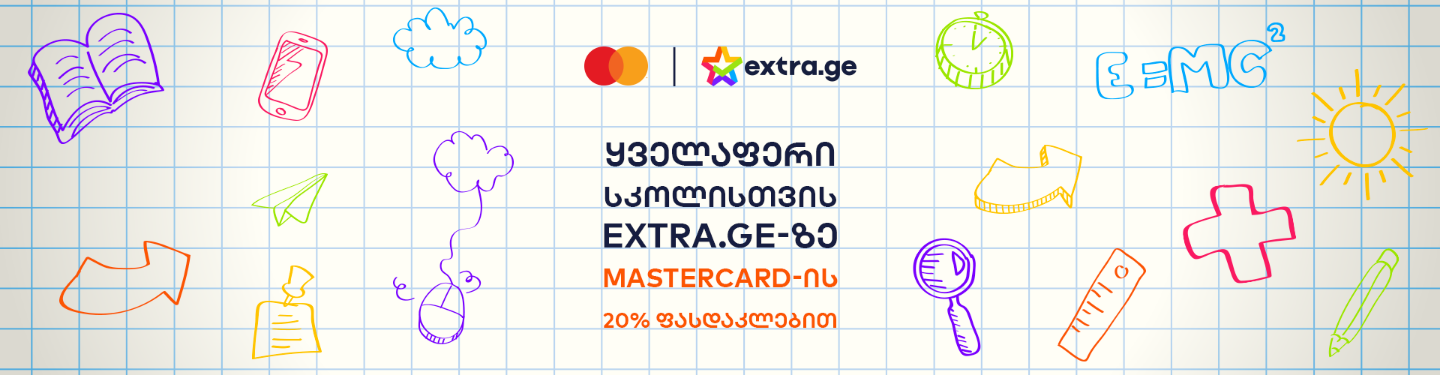
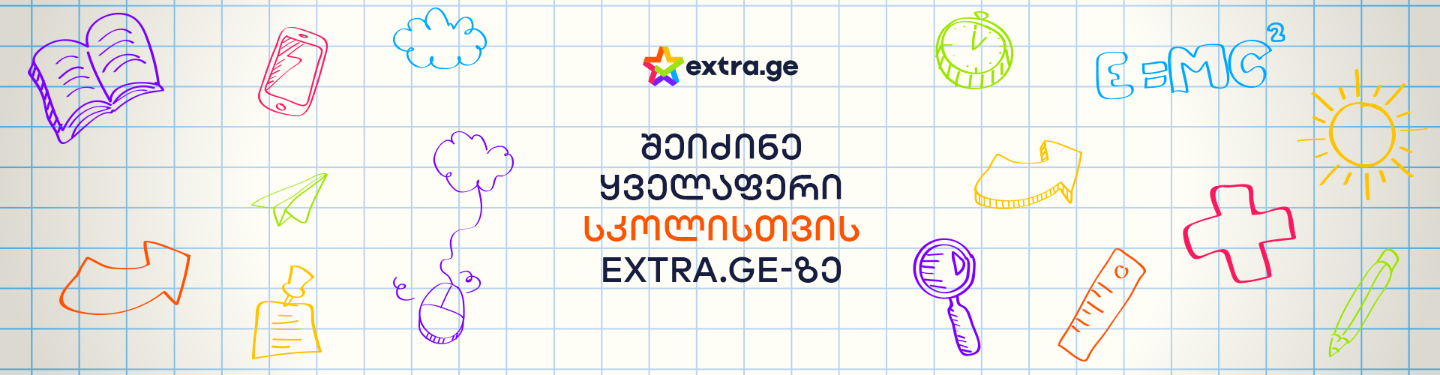
tmb

diff --git a/backtoschool/index.html b/backtoschool/index.html
@@ -7,7 +7,7 @@
   <meta property="og:url" content="https://promo.extra.ge/backtoschool/" />
   <meta property="og:type" content="article" />
   <meta property="og:title" content="🌈 რაც სკოლისთვის გაგიხარდება"  />
-  <meta property="og:description" content="შეიძინე ყველაფერი სკოლისთვის Mastercard-ის -20% ფასდაკლებით! მიიღე შეკვეთა 2 დღეში უფასოდ!" />
+  <meta property="og:description" content="მიიღე შენაძენი თბილისის მასშტაბით 2 დღეში!" />
   <meta property="og:image" content="https://promo.extra.ge/backtoschool/image/tmb.png" />
   <title>🌈 რაც სკოლისთვის გაგიხარდება</title>
   <link rel="icon" href="image/extra_tab_logo-01.svg" type="image/gif" >
@@ -116,7 +116,7 @@
 
 <div class="header-alert">
   <img src="image/delivery-truck-with-circular-clock (1).svg" alt="">
-  <p class="header-alert__p">მიიღე შენაძენი 2 დღეში. ისარგებლე უფასო მიწოდებით MASTERCARD-ით გადახდისას!</p>
+  <p class="header-alert__p">მიიღე შენაძენი თბილისის მასშტაბით 2 დღეში!</p>
 </div>
 
 <!-- <div class="container banner-container-head">
@@ -231,20 +231,22 @@
 
     <div class="col-12 col-md-4">
       <div class="how-it-works">
-        <svg xmlns="http://www.w3.org/2000/svg" width="67.797" height="60" viewBox="0 0 67.797 60"><g transform="translate(-318.307 -398.207)"><path d="M329.94,417.658h14.692l32.143-13.173-1.558-3.8a3.988,3.988,0,0,0-5.2-2.178l-49.232,20.177a3.988,3.988,0,0,0-2.178,5.2l1.558,3.8,4.668-1.913v-3.006A5.114,5.114,0,0,1,329.94,417.658Z" transform="translate(0 0)" /><path d="M361.04,734.683v-6.65l-2.333.956Z" transform="translate(-36.208 -296.181)" fill="#f9561f"/><path d="M749.833,521.1l-3.064-7.477L728.526,521.1Z" transform="translate(-368.688 -103.647)" fill="#f9561f"/><path d="M448.225,596.487h-52.31a3.955,3.955,0,0,0-3.921,3.988v32.364a3.955,3.955,0,0,0,3.921,3.988h52.31a3.954,3.954,0,0,0,3.921-3.988V600.475A3.954,3.954,0,0,0,448.225,596.487Zm-39.338,15.434a1.667,1.667,0,0,1-1.652,1.681h-9.089a1.667,1.667,0,0,1-1.652-1.681V605.7a1.667,1.667,0,0,1,1.652-1.681h9.089a1.667,1.667,0,0,1,1.652,1.681Zm35.029,21.039a4.39,4.39,0,0,1-3.3-1.5,4.39,4.39,0,0,1-3.3,1.5,4.51,4.51,0,0,1,0-9.019,4.389,4.389,0,0,1,3.3,1.5,4.389,4.389,0,0,1,3.3-1.5,4.51,4.51,0,0,1,0,9.019Z" transform="translate(-66.042 -178.62)" fill="#f9561f"/></g></svg>
-        <p class="how-it-works__p">გადაიხადე Mastercard-ით და მიიღე 20% ფადაკლება, მაქსიმუმ 100 ლარი</p>
+
+        <svg xmlns="http://www.w3.org/2000/svg" width="76.614" height="60" viewBox="0 0 76.614 60"><path d="M302.329,498.906h40.208c2.8,0,4.385-2.387,5.1-5.1l6.68-25.413h2.32a4.1,4.1,0,0,0,0-8.208H345.585l-12.446-19.992a2.732,2.732,0,0,0-4.638,2.886l10.649,17.106H305.717l10.649-17.106a2.732,2.732,0,0,0-4.639-2.886l-12.445,19.992H288.23a4.1,4.1,0,0,0,0,8.208h2.32l6.68,25.413c.713,2.711,2.294,5.1,5.1,5.1ZM307,471.2a2.736,2.736,0,1,1,5.472,0v16.957a2.736,2.736,0,1,1-5.472,0V471.2Zm25.39,0a2.736,2.736,0,0,1,5.473,0v16.957a2.736,2.736,0,1,1-5.473,0V471.2Zm-12.7,0a2.736,2.736,0,1,1,5.472,0v16.957a2.736,2.736,0,1,1-5.472,0V471.2Z" transform="translate(-284.126 -438.906)" fill-rule="evenodd"/></svg>        <p class="how-it-works__p">შეარჩიე ნივთები რჩეული კატეგორიებიდან</p>
       </div>
     </div>
 
     <div class="col-12 col-md-4 h-i-w-middle">
       <div class="how-it-works">
-        <svg xmlns="http://www.w3.org/2000/svg" width="52.984" height="59.953" viewBox="0 0 52.984 59.953"><g transform="translate(-2009.805 -300.389)"><path d="M2060.706,323.537a26.475,26.475,0,0,0-21.563-16.029v-1.735h1.958a1.427,1.427,0,0,0,1.427-1.427v-2.531a1.427,1.427,0,0,0-1.427-1.427h-9.607a1.427,1.427,0,0,0-1.427,1.427v2.531a1.427,1.427,0,0,0,1.427,1.427h1.958v1.735a26.477,26.477,0,1,0,27.255,16.029ZM2036.3,355.624a21.774,21.774,0,1,1,21.774-21.774A21.8,21.8,0,0,1,2036.3,355.624Z" transform="translate(0)" fill="#f9561f"/><path d="M2083.579,390.547a18.267,18.267,0,1,0,17.013,24.747l-17.077-6.478Z" transform="translate(-46.432 -75.509)"/></g></svg>        <p class="how-it-works__p">აქცია გრძელდება 20 თებერვლამდე</p>
+        <svg xmlns="http://www.w3.org/2000/svg" width="52.984" height="59.953" viewBox="0 0 52.984 59.953"><g transform="translate(-2009.805 -300.389)"><path d="M2060.706,323.537a26.475,26.475,0,0,0-21.563-16.029v-1.735h1.958a1.427,1.427,0,0,0,1.427-1.427v-2.531a1.427,1.427,0,0,0-1.427-1.427h-9.607a1.427,1.427,0,0,0-1.427,1.427v2.531a1.427,1.427,0,0,0,1.427,1.427h1.958v1.735a26.477,26.477,0,1,0,27.255,16.029ZM2036.3,355.624a21.774,21.774,0,1,1,21.774-21.774A21.8,21.8,0,0,1,2036.3,355.624Z" transform="translate(0)" fill="#f9561f"/><path d="M2083.579,390.547a18.267,18.267,0,1,0,17.013,24.747l-17.077-6.478Z" transform="translate(-46.432 -75.509)"/></g></svg>        
+        <p class="how-it-works__p">ისარგებლე ფასდაკლებებით 20 თებერვლამდე</p>
       </div>
     </div>
 
     <div class="col-12 col-md-4">
       <div class="how-it-works">
-        <svg xmlns="http://www.w3.org/2000/svg" width="63.149" height="59.953" viewBox="0 0 63.149 59.953"><g transform="translate(-168.662 -110.78)"><g transform="translate(168.662 110.78)"><path d="M452.674,195.941l-9.935-6.716h-.008a2.094,2.094,0,0,0-.13-.535,3.4,3.4,0,0,0-.319-1.148l2.263-16.024c-.449-2.618-2.426-.469-2.426-.469l-4.29,14.974h0a3.322,3.322,0,0,0,1.463,6.305,3.241,3.241,0,0,0,1.135-.2.589.589,0,0,0,.131-.013l11.192,5.492C453.777,197.9,452.674,195.941,452.674,195.941Zm-13.186-5.486a.975.975,0,0,1-.2.017,1.464,1.464,0,1,1,1.4-1.9,1.311,1.311,0,0,1,.066.437A1.454,1.454,0,0,1,439.488,190.454Z" transform="translate(-403.069 -162.903)" /><path d="M198.96,375.518H195.8v-.436a3.226,3.226,0,0,0-3.226-3.223h-20.68a3.222,3.222,0,0,0-3.227,3.223v12.185h41.477v-.626a4.043,4.043,0,0,0-1.2-2.872l-7.156-7.089A4.014,4.014,0,0,0,198.96,375.518Zm-.759,8.571v-6.065h1.381l6.61,6.065Z" transform="translate(-168.662 -339.725)" fill="#f9561f"/><path d="M210.629,506.432v3.709a3.217,3.217,0,0,1-3.218,3.223h-1.372a5.076,5.076,0,0,0-10.149,0H184.277a5.076,5.076,0,0,0-10.15,0h-1.679a3.224,3.224,0,0,1-3.226-3.223v-3.709Z" transform="translate(-169.153 -457.735)" fill="#f9561f"/><path d="M219.406,529.225a4.225,4.225,0,1,0,4.227,4.222A4.225,4.225,0,0,0,219.406,529.225Zm0,6.34a2.114,2.114,0,1,1,2.111-2.117A2.115,2.115,0,0,1,219.406,535.565Z" transform="translate(-209.456 -477.722)" fill="#f9561f"/><path d="M398.415,529.225a4.225,4.225,0,1,0,4.225,4.222A4.224,4.224,0,0,0,398.415,529.225Zm0,6.34a2.114,2.114,0,1,1,2.113-2.117A2.114,2.114,0,0,1,398.415,535.565Z" transform="translate(-366.433 -477.722)" fill="#f9561f"/><path d="M306.541,136.985a26.334,26.334,0,0,1-16.232,24.45,2.105,2.105,0,0,1-2.908-1.948h0a2.1,2.1,0,0,1,1.288-1.939A22.121,22.121,0,1,0,258.1,137.11q0,.642.036,1.274a2.108,2.108,0,0,1-2.1,2.235h0a2.105,2.105,0,0,1-2.1-1.984q-.043-.756-.043-1.525a26.33,26.33,0,0,1,52.66-.125Z" transform="translate(-243.392 -110.78)" fill="#f9561f"/></g></g></svg>        <p class="how-it-works__p">გადაიხადე MASTERCARD-ით და მიიღე უფასოდ 2 დღეში</p>
+        <svg xmlns="http://www.w3.org/2000/svg" width="63.149" height="59.953" viewBox="0 0 63.149 59.953"><g transform="translate(-168.662 -110.78)"><g transform="translate(168.662 110.78)"><path d="M452.674,195.941l-9.935-6.716h-.008a2.094,2.094,0,0,0-.13-.535,3.4,3.4,0,0,0-.319-1.148l2.263-16.024c-.449-2.618-2.426-.469-2.426-.469l-4.29,14.974h0a3.322,3.322,0,0,0,1.463,6.305,3.241,3.241,0,0,0,1.135-.2.589.589,0,0,0,.131-.013l11.192,5.492C453.777,197.9,452.674,195.941,452.674,195.941Zm-13.186-5.486a.975.975,0,0,1-.2.017,1.464,1.464,0,1,1,1.4-1.9,1.311,1.311,0,0,1,.066.437A1.454,1.454,0,0,1,439.488,190.454Z" transform="translate(-403.069 -162.903)" /><path d="M198.96,375.518H195.8v-.436a3.226,3.226,0,0,0-3.226-3.223h-20.68a3.222,3.222,0,0,0-3.227,3.223v12.185h41.477v-.626a4.043,4.043,0,0,0-1.2-2.872l-7.156-7.089A4.014,4.014,0,0,0,198.96,375.518Zm-.759,8.571v-6.065h1.381l6.61,6.065Z" transform="translate(-168.662 -339.725)" fill="#f9561f"/><path d="M210.629,506.432v3.709a3.217,3.217,0,0,1-3.218,3.223h-1.372a5.076,5.076,0,0,0-10.149,0H184.277a5.076,5.076,0,0,0-10.15,0h-1.679a3.224,3.224,0,0,1-3.226-3.223v-3.709Z" transform="translate(-169.153 -457.735)" fill="#f9561f"/><path d="M219.406,529.225a4.225,4.225,0,1,0,4.227,4.222A4.225,4.225,0,0,0,219.406,529.225Zm0,6.34a2.114,2.114,0,1,1,2.111-2.117A2.115,2.115,0,0,1,219.406,535.565Z" transform="translate(-209.456 -477.722)" fill="#f9561f"/><path d="M398.415,529.225a4.225,4.225,0,1,0,4.225,4.222A4.224,4.224,0,0,0,398.415,529.225Zm0,6.34a2.114,2.114,0,1,1,2.113-2.117A2.114,2.114,0,0,1,398.415,535.565Z" transform="translate(-366.433 -477.722)" fill="#f9561f"/><path d="M306.541,136.985a26.334,26.334,0,0,1-16.232,24.45,2.105,2.105,0,0,1-2.908-1.948h0a2.1,2.1,0,0,1,1.288-1.939A22.121,22.121,0,1,0,258.1,137.11q0,.642.036,1.274a2.108,2.108,0,0,1-2.1,2.235h0a2.105,2.105,0,0,1-2.1-1.984q-.043-.756-.043-1.525a26.33,26.33,0,0,1,52.66-.125Z" transform="translate(-243.392 -110.78)" fill="#f9561f"/></g></g></svg>        
+        <p class="how-it-works__p">მიიღე შენაძენი თბილისის მასშტაბით 2 დღეში</p>
       </div>
     </div>
 
@@ -253,8 +255,8 @@
 
 <div class="container">
   <div class="row justify-content-center">
-    <h1 class="w-100 text-center exchange__h1 exchange-pp">როგორ მუშაობს?</h1>
-    <p class="exchange-last-p">შეიძინე, რაც სკოლისთვის გაგიხარდება MASTERCARD-ით და მიიღე -20% ფასდაკლება. შენს შეკვეთას სასურველ მისამართზე 2 დღეში უფასოდ მოგიტანთ.</p>
+    <h1 class="w-100 text-center exchange__h1 exchange-pp">რაც სკოლისთვის გაგიხარდება!</h1>
+    <p class="exchange-last-p">შეიძინე, რაც სკოლისთვის გაგიხარდება ჩვენი რჩეული კატეგორიებიდან. შენს შეკვეთას თბილისში სასურველ მისამართზე ჩვენი კურიერი 2 დღეში მოგიტანს.</p>
     <div class="d-flex justify-content-center w-100">
       <a href="https://extra.ge/" target="_blank" style="display: inline-flex; align-items: center; justify-content: center;" target="_blank" class="anner__btn btn-exchange banner__btn another-btn banner__btn__p-here" >
         <p class="banner__btn__a btn-exchange__a">შეიძინე</p>            

diff --git a/backtoschool/css/styles.css b/backtoschool/css/styles.css
@@ -1028,6 +1028,7 @@ path {
   .exchange-last-p {
     font-size: 14px;
     line-height: 1.4;
+    max-width: 342px;
   }
   .header-alert {
     padding-left: 10px;

diff --git a/backtoschool/css/styles.scss b/backtoschool/css/styles.scss
@@ -794,6 +794,7 @@ path {
   .exchange-last-p {
     font-size: 14px;
     line-height: 1.4;
+    max-width: 342px;
   }
   .header-alert {
     padding-left: 10px;
